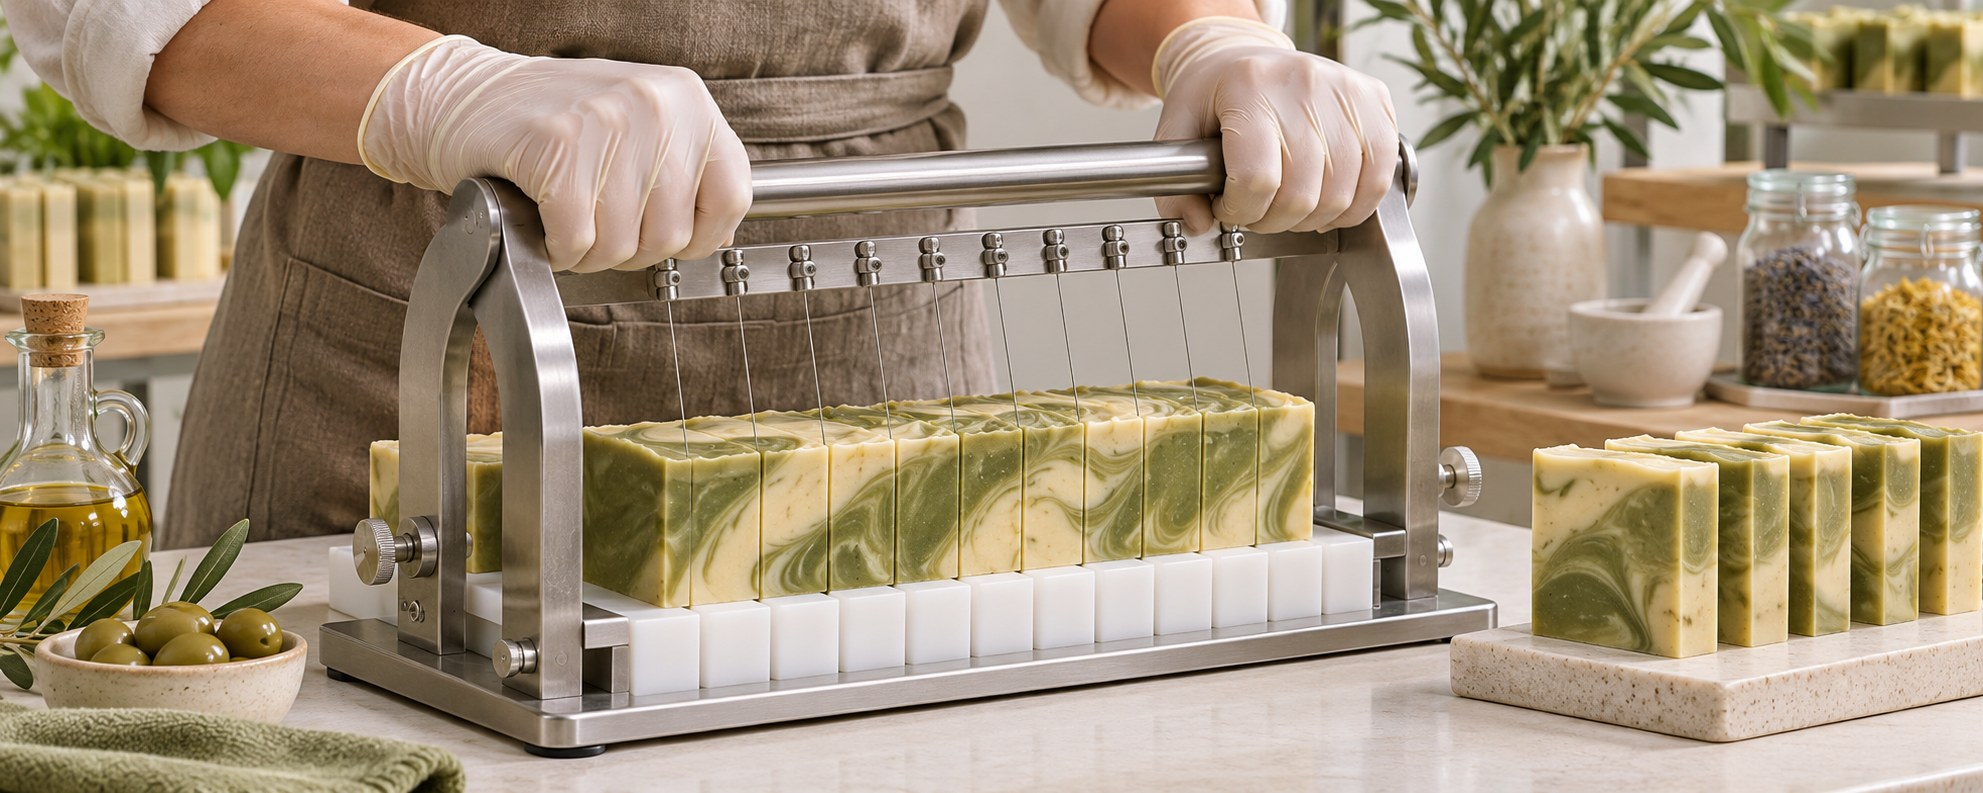
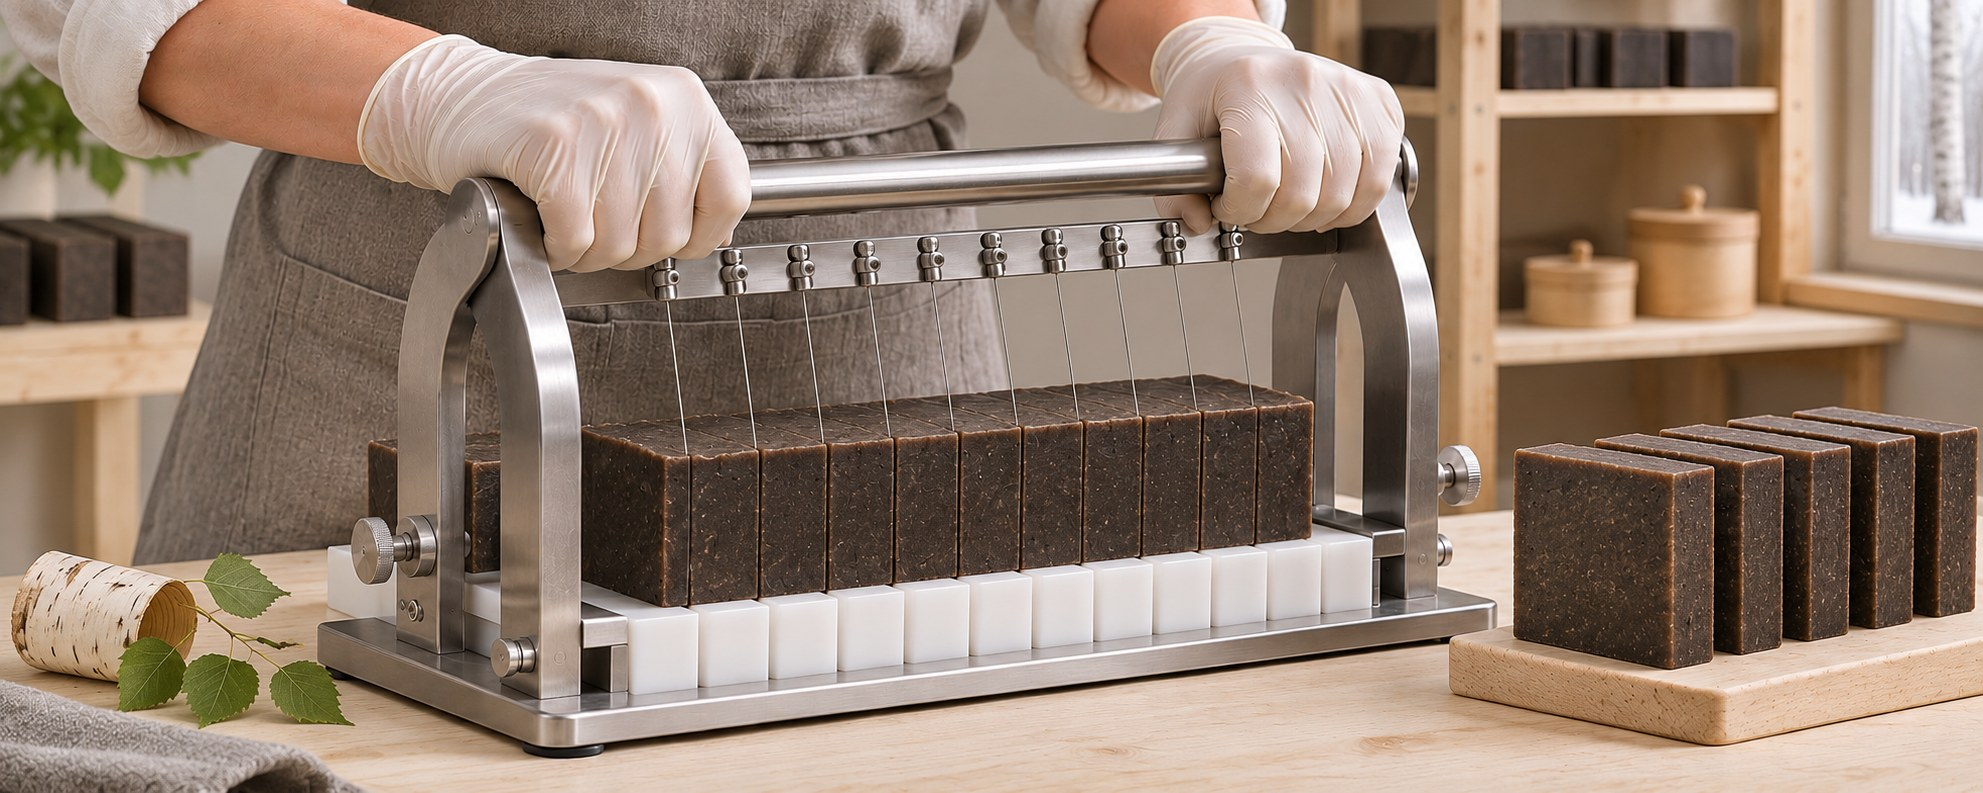
Refine workshop imagery on the About page

diff --git a/history.html b/history.html
@@ -8,7 +8,7 @@
 <link rel="icon" href="assets/icon.png">
 <link rel="stylesheet" href="https://fonts.googleapis.com/css2?family=Manrope:wght@400;500;600;700;800&amp;display=swap">
 <link rel="stylesheet" href="styles.css?v=header-states">
-<link rel="stylesheet" href="about.css?v=lelya-production">
+<link rel="stylesheet" href="about.css?v=lelya-workshop">
 </head>
 <body class="about-page">
 <a class="skip" href="#history">К&nbsp;содержанию</a>
@@ -77,17 +77,16 @@
     </div>
     <div class="about-production-scenes">
       <article>
-        <img src="assets/about/ingredient-mixing.jpg" width="1983" height="793" alt="" decoding="async">
+        <img src="assets/about/ingredient-mixing.jpg?v=workshop" width="1983" height="793" alt="Миска для смешивания, сушёные травы, сакская соль, соль Мёртвого моря и масла разных оттенков" decoding="async">
         <h3>Смешиваем ингредиенты</h3>
         <p>Соединяем компоненты по рецептуре, чтобы получить нужную текстуру средства.</p>
       </article>
       <article>
-        <img src="assets/about/soap-cutting.jpg" width="1983" height="793" alt="" decoding="async">
+        <img src="assets/about/soap-cutting.jpg?v=workshop" width="1983" height="793" alt="Мастер нарезает тёмное дегтярное мыло на бруски струнным резаком" decoding="async">
         <h3>Нарезаем мыло на бруски</h3>
         <p>Для нарезки мыльную заготовку сначала вынимают из формы.</p>
       </article>
     </div>
-    <p class="about-production-caption">Иллюстрации производственных процессов</p>
     <div class="about-quality">
       <h3>Контроль качества</h3>
       <p><strong>Вся продукция «Лели» проходит проверку и подтверждение качества.</strong></p>

diff --git a/about.css b/about.css
@@ -185,7 +185,6 @@
 .about-quality h3 { font-size: clamp(1.35rem, 2.3vw, 2rem); }
 .about-production-scenes p,
 .about-quality p { margin-bottom: 0; }
-.about-production-caption { margin: .9rem 0 0; font-size: .85rem; }
 
 .about-quality {
   border-inline-start: 3px solid #657857;
